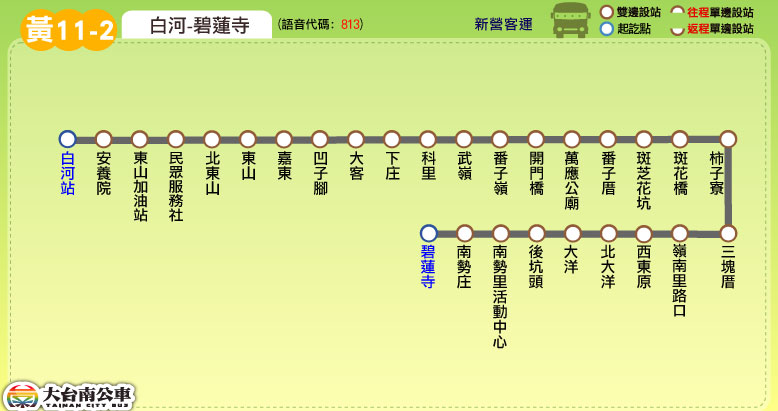
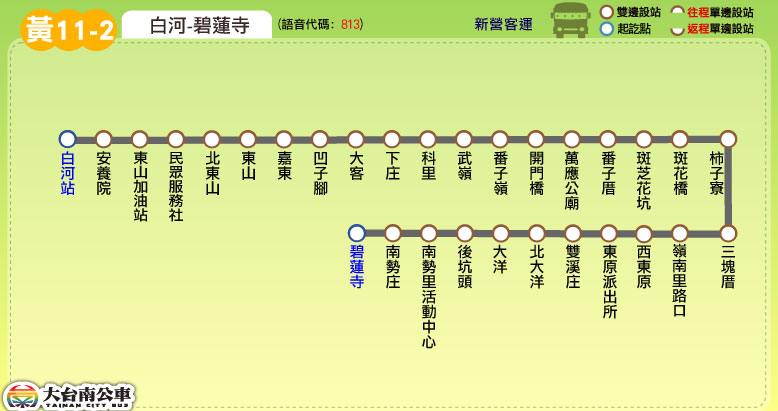
新增站位：黃11-2(增「東原派出所」、「雙溪庄」)

Changed region(s): [[0.4319, 0.5255, 0.8021, 0.8467], [0.8946, 0.5547, 0.9254, 0.5839], [0.6478, 0.5547, 0.6787, 0.5839]]

diff --git a/route/fare_and_time/yellow_11_2.js b/route/fare_and_time/yellow_11_2.js
@@ -6,7 +6,7 @@ yellow_11_2_interval_stop = [
 ["武嶺"], // 武嶺
 ["番子嶺","開門橋","萬應公廟","番子厝"], // 番子嶺
 ["斑芝花坑","斑花橋","柿子寮"], // 斑芝花坑
-["三塊厝","嶺南里路口","西東原"], // 西東原
+["三塊厝","嶺南里路口","西東原","東原派出所","雙溪庄"], // 西東原
 ["北大洋","大洋","後坑頭","南勢里活動中心"], // 北大洋
 ["南勢庄"], // 南勢庄
 ["碧蓮寺"] // 碧蓮寺
